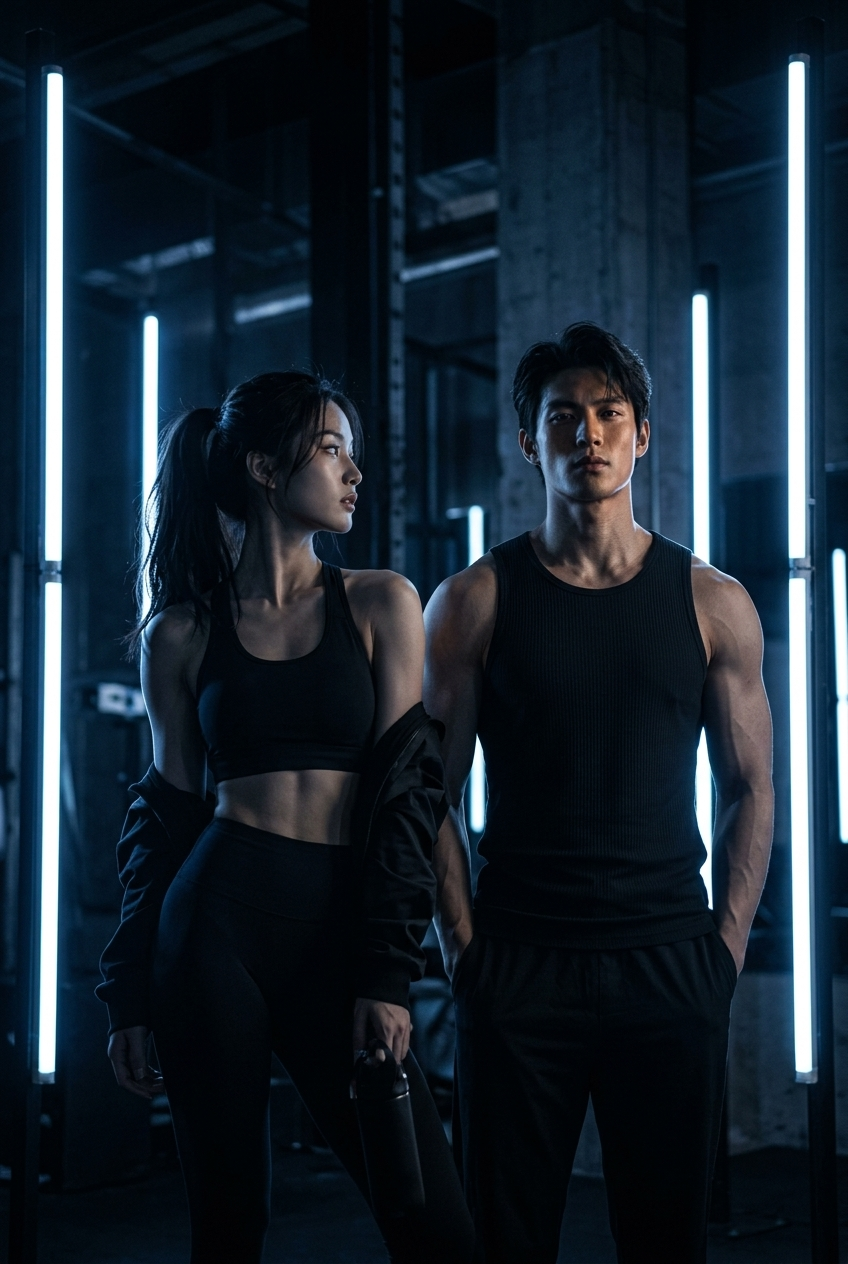
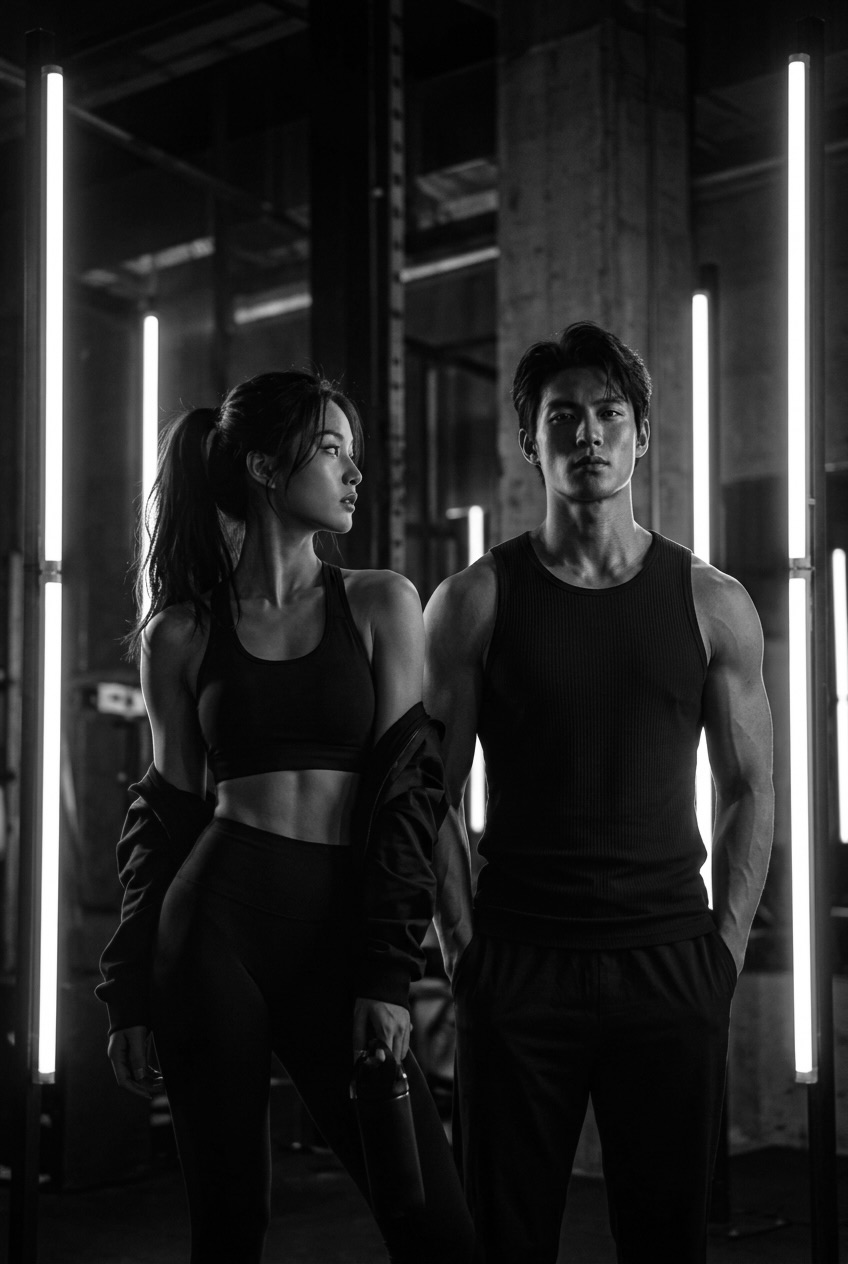
completed log in page

diff --git a/assets/css/styles.css b/assets/css/styles.css
@@ -1,6 +1,6 @@
 body {
     margin: 0;
-    background-image: radial-gradient(circle, #102234, #0e1f2f, #0d1c2a, #0b1825, #091520);
+    /* background-image: radial-gradient(circle, #102234, #0e1f2f, #0d1c2a, #0b1825, #091520); */
     background-color: black !important;
     height: 100vh;
     color: white !important;
@@ -11,12 +11,22 @@ body {
     height: 100%;
 }
 
-.main-content, .content {
+.content p, form, .content{
     /* border: 1px solid white; */
 }
 
+.main-content {
+    display: flex;
+    flex-direction: column;
+    justify-content: flex-start;
+}
+
+.caption {
+    font-size: 13px;
+}
+
 .content {
-    box-shadow: 1px 8px 10px 10px rgba(0,0,0,0.4);
+    box-shadow: 0 8px 30px rgba(255, 255, 255, 0.30);
     border-radius: 10px;
 }
 
@@ -37,6 +47,12 @@ body {
     background-color: transparent !important;
     height: 50px;
     border-radius: 10px !important;
+    color: white !important;
+}
+
+.form-control:focus, .checkbox:focus {
+    border-color: rgba(255, 255, 255, 0.4) !important;
+    box-shadow: 0 0 0 2px rgba(255, 255, 255, 0.1) !important;
 }
 
 input::placeholder {
@@ -45,4 +61,20 @@ input::placeholder {
 
 .checkbox {
     background-color: transparent !important;
+}
+
+.content button {
+    height: 50px;
+}
+
+.line {
+    flex: 1;
+    background-color: gray;
+    height: 1px;
+}
+
+.login-btn:hover {
+    color: gray !important;
+    background-color: rgba(0, 0, 0, 0.137) !important;
+    border: 1px solid white !important;
 }

diff --git a/auth/login.php b/auth/login.php
@@ -33,7 +33,7 @@ if ($_SERVER['REQUEST_METHOD'] === 'POST') {
         header('Location: /dashboard');
         exit;
     } else {
-        $error = 'Invalid email or password';
+        $error = 'Invalid email or password!';
     }
 }
 
@@ -52,21 +52,24 @@ if ($_SERVER['REQUEST_METHOD'] === 'POST') {
 <body>
     <div class="app-container m-0 p-0 d-flex ">
         <div class="main-content w-50 h-100 p-4">
-            <h3 class="fw-bold">GymTrack</h3>
-            <p class="text-secondary">Member & Club Management Portal</p>
+            <div class="">
+                <h3 class="fw-bold fs-4 mb-0">GymTrack</h3>
+                <p class="text-secondary caption">Member & Club Management Portal</p>
+            </div>
 
-            <div class="content p-5 pt-4 mx-5 mt-5">
-                <h1 class="fw-bold">Welcome Back</h1>
-                <p class="text-secondary"><?= htmlspecialchars($greeting) ?></p>
+            <div class="content px-5 pt-4 m-5 <?= $error ? 'mt-3' : '' ?>">
+                <h1 class="fw-bold mb-0">Welcome Back</h1>
+                <p class="text-secondary p-0"><?= htmlspecialchars($greeting) ?></p>
 
+                <!-- if email/pass didn't match -->
                 <?php if ($error): ?>
-                    <p style="color: red;"><?= htmlspecialchars($error) ?></p>
+                    <p class="alert alert-dark"><?= htmlspecialchars($error) ?></p>
                 <?php endif; ?>
 
                 <!-- the login form -->
                 <form method="POST" action="/login">
                     <!-- email -->
-                    <div class="mb-3 mt-5">
+                    <div class="mb-3 mt-4">
                         <label class="form-label">Email</label>
                         <input type="email" class="form-control" name="email" placeholder="john.doe@gmail.com" required>
                     </div>
@@ -88,18 +91,26 @@ if ($_SERVER['REQUEST_METHOD'] === 'POST') {
                     </div>
 
                     <!-- login button -->
-                    <button type="submit" class="btn btn-primary">Log In</button>
-                    <p>or</p>
-                    <button type="submit" class="btn btn-primary">Log In with Google</button>
+                    <button type="submit" class="btn bg-white w-100 fw-bold mt-4 login-btn">Log In</button>
+                    
+                    <div class="divider m-2 d-flex align-items-center">
+                        <span class="line"></span>
+                        <span class="mx-2 text-secondary">or</span>
+                        <span class="line"></span>
+                    </div>
 
-                    <p>Don't have an account? <a href="/register">Sign up here</a></p>
-                    <p>GymTrack v1.0. Secure club access for GymZ Fitness.</p>
+                    <button type="submit" class="btn bg-transparent w-100 text-white border-white fw-bold">
+                        <img src="./assets/img/google.png" alt="google" width="16px" class="me-2">Log In with Google
+                    </button>
+
+                    <p class="text-secondary m-0 mt-5 caption">Don't have an account? <a href="/register" class="text-light">Sign up here</a></p>
+                    <p class="text-secondary caption m-0 mb-3">GymTrack v1.0. Secure club access for GymZ Fitness.</p>
                 </form>
             </div>
         </div>
 
         <div class="poster">
-            <img src="../assets/img/poster.png" alt="gym model poster">
+            <img src="../assets/img/poster3.png" alt="gym model poster">
         </div>
     </div>
 

diff --git a/index.php b/index.php
@@ -7,8 +7,7 @@ $path = trim($_SERVER['REQUEST_URI'], '/');
 $path = parse_url($path, PHP_URL_PATH);
 
 switch ($path) {
-    case '';
-
+    case '':
     case 'login':
         include 'auth/login.php';
         break;
@@ -19,10 +18,14 @@ switch ($path) {
 
     case 'dashboard':
         if (isGuest()) {
-            header('Location: login');
+            header('Location: /login');
             exit;
         }
         include 'operations/dashboard.php';
+        break;
+
+    case 'logout':
+        include 'auth/logout.php';
         break;
 
     default:

diff --git a/operations/dashboard.php b/operations/dashboard.php
@@ -20,6 +20,6 @@ if (!isset($_SESSION['user'])) {
     <h1>Hello, Admin</h1>
     <h3>Welcome to your first dashboard</h3>
 
-    <a href="auth/login.php">Log Out</a>
+    <a href="/login">Log Out</a>
 </body>
 </html>
